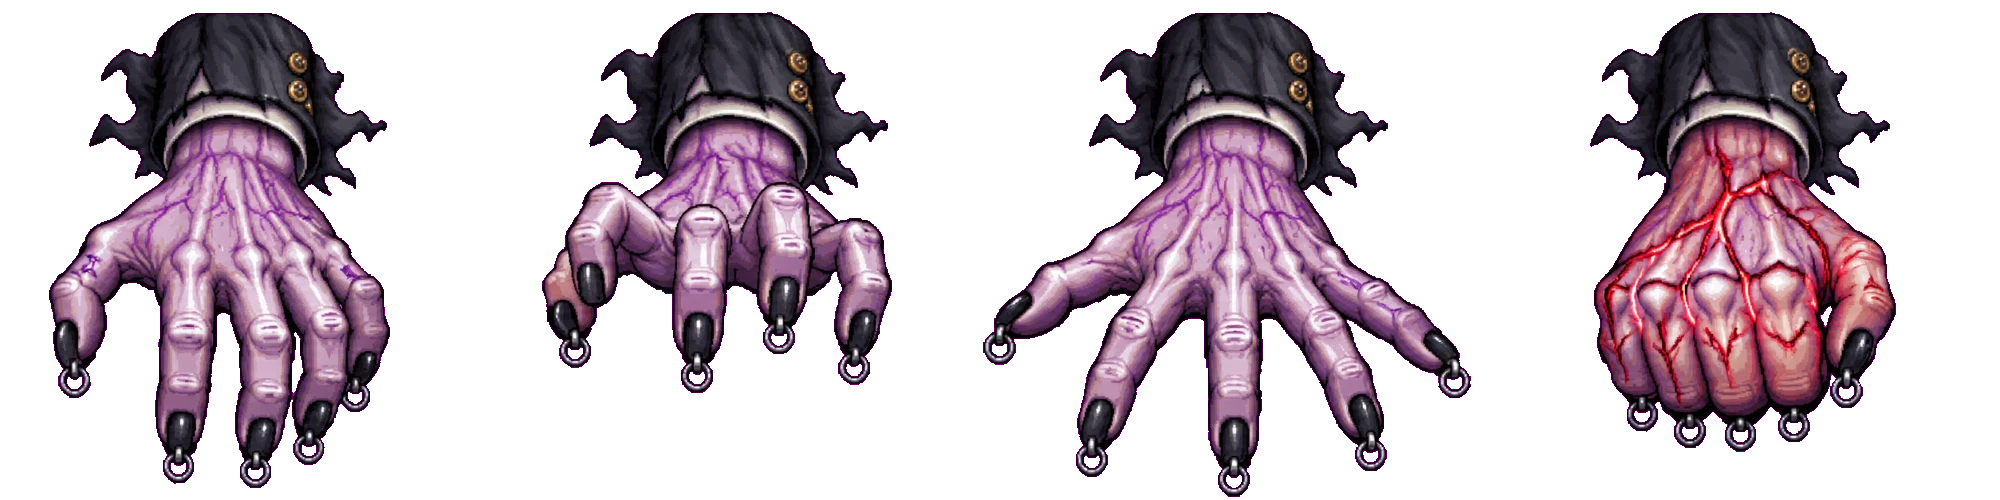
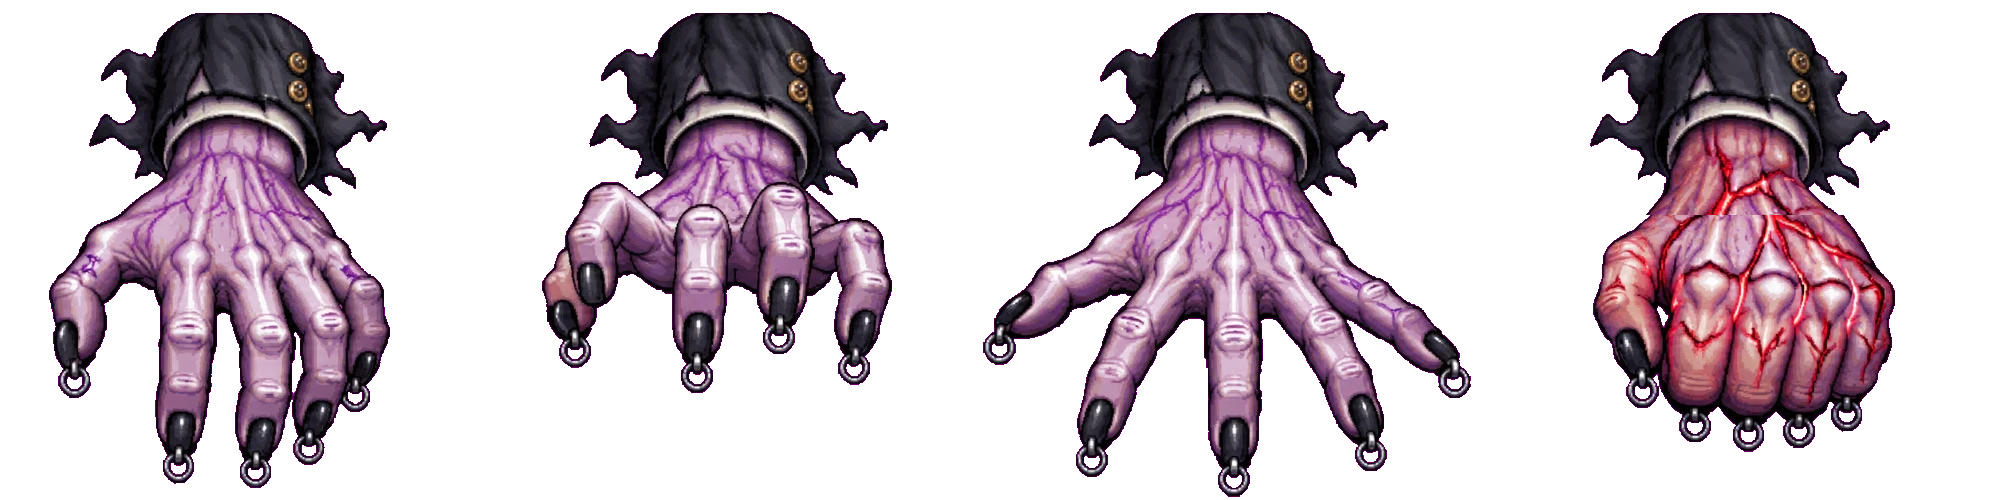
Marionete: o boneco protege na frente da mao (sem cobri-la) e o dedao do punho no lado certo
Claude-Session: https://claude.ai/code/session_01YU21iq1A5cr81r2vc4qJPp

Changed region(s): [[0.775, 0.42, 0.961, 0.9]]

diff --git a/src/Jogo/MarionetePuppets.java b/src/Jogo/MarionetePuppets.java
@@ -21,7 +21,7 @@ final class MarionetePuppets {
     private static final int W = Config.LARGURA, H = Config.ALTURA, TOPO = Config.HUD;
     private static final int MAO_T = 230, BON_T = 300;
 
-    private double tempo, entrada, hx = W + 40, hy, bOff = 150, bDx, recarga = 1.8, comando, guarda, espera, flash, faisca;
+    private double tempo, entrada, hx = W + 40, hy, bOff = 150, bDx, recarga = 1.8, comando, guarda, espera, flash, faisca, gx;
     private int golpes, comandoTipo = -1;
     private boolean acertouBoneco;
     private double vidaFrac = 1;
@@ -31,7 +31,7 @@ final class MarionetePuppets {
 
     private double baseX() { return W - MAO_T / 2.0 - 70; }
     private double bonecoY() { return hy + bOff; }
-    private double bonecoX() { return hx + bDx; }
+    private double bonecoX() { return hx + bDx + gx; }
     Rectangle mao() { return new Rectangle((int) hx - 88, (int) hy + 40, 176, 170); }
     Rectangle boneco() { return new Rectangle((int) bonecoX() - 70, (int) bonecoY() + 50, 140, BON_T - 70); }
     Rectangle bounds() { return mao().union(boneco()); }
@@ -47,8 +47,10 @@ final class MarionetePuppets {
         // escudo reativo: quando a mao leva tiro, o boneco sobe na frente dela por um instante e depois desce
         if (guarda > 0) { guarda = Math.max(0, guarda - dt); if (guarda == 0) espera = 2.4; }
         else espera = Math.max(0, espera - dt);
-        double alvoOff = guarda > 0 ? -10 : 150;
-        bOff += (alvoOff - bOff) * Math.min(1, dt * (guarda > 0 ? 12 : 4));
+        // protegendo: o boneco vai para a FRENTE da mao (entre a nave e ela), na altura dela, sem cobri-la
+        double vel = Math.min(1, dt * (guarda > 0 ? 12 : 4));
+        bOff += ((guarda > 0 ? -40 : 150) - bOff) * vel;
+        gx += ((guarda > 0 ? -235 : 0) - gx) * vel;
         if (entrada < 1) return;
         // comandos da mao
         if (comando > 0) {
